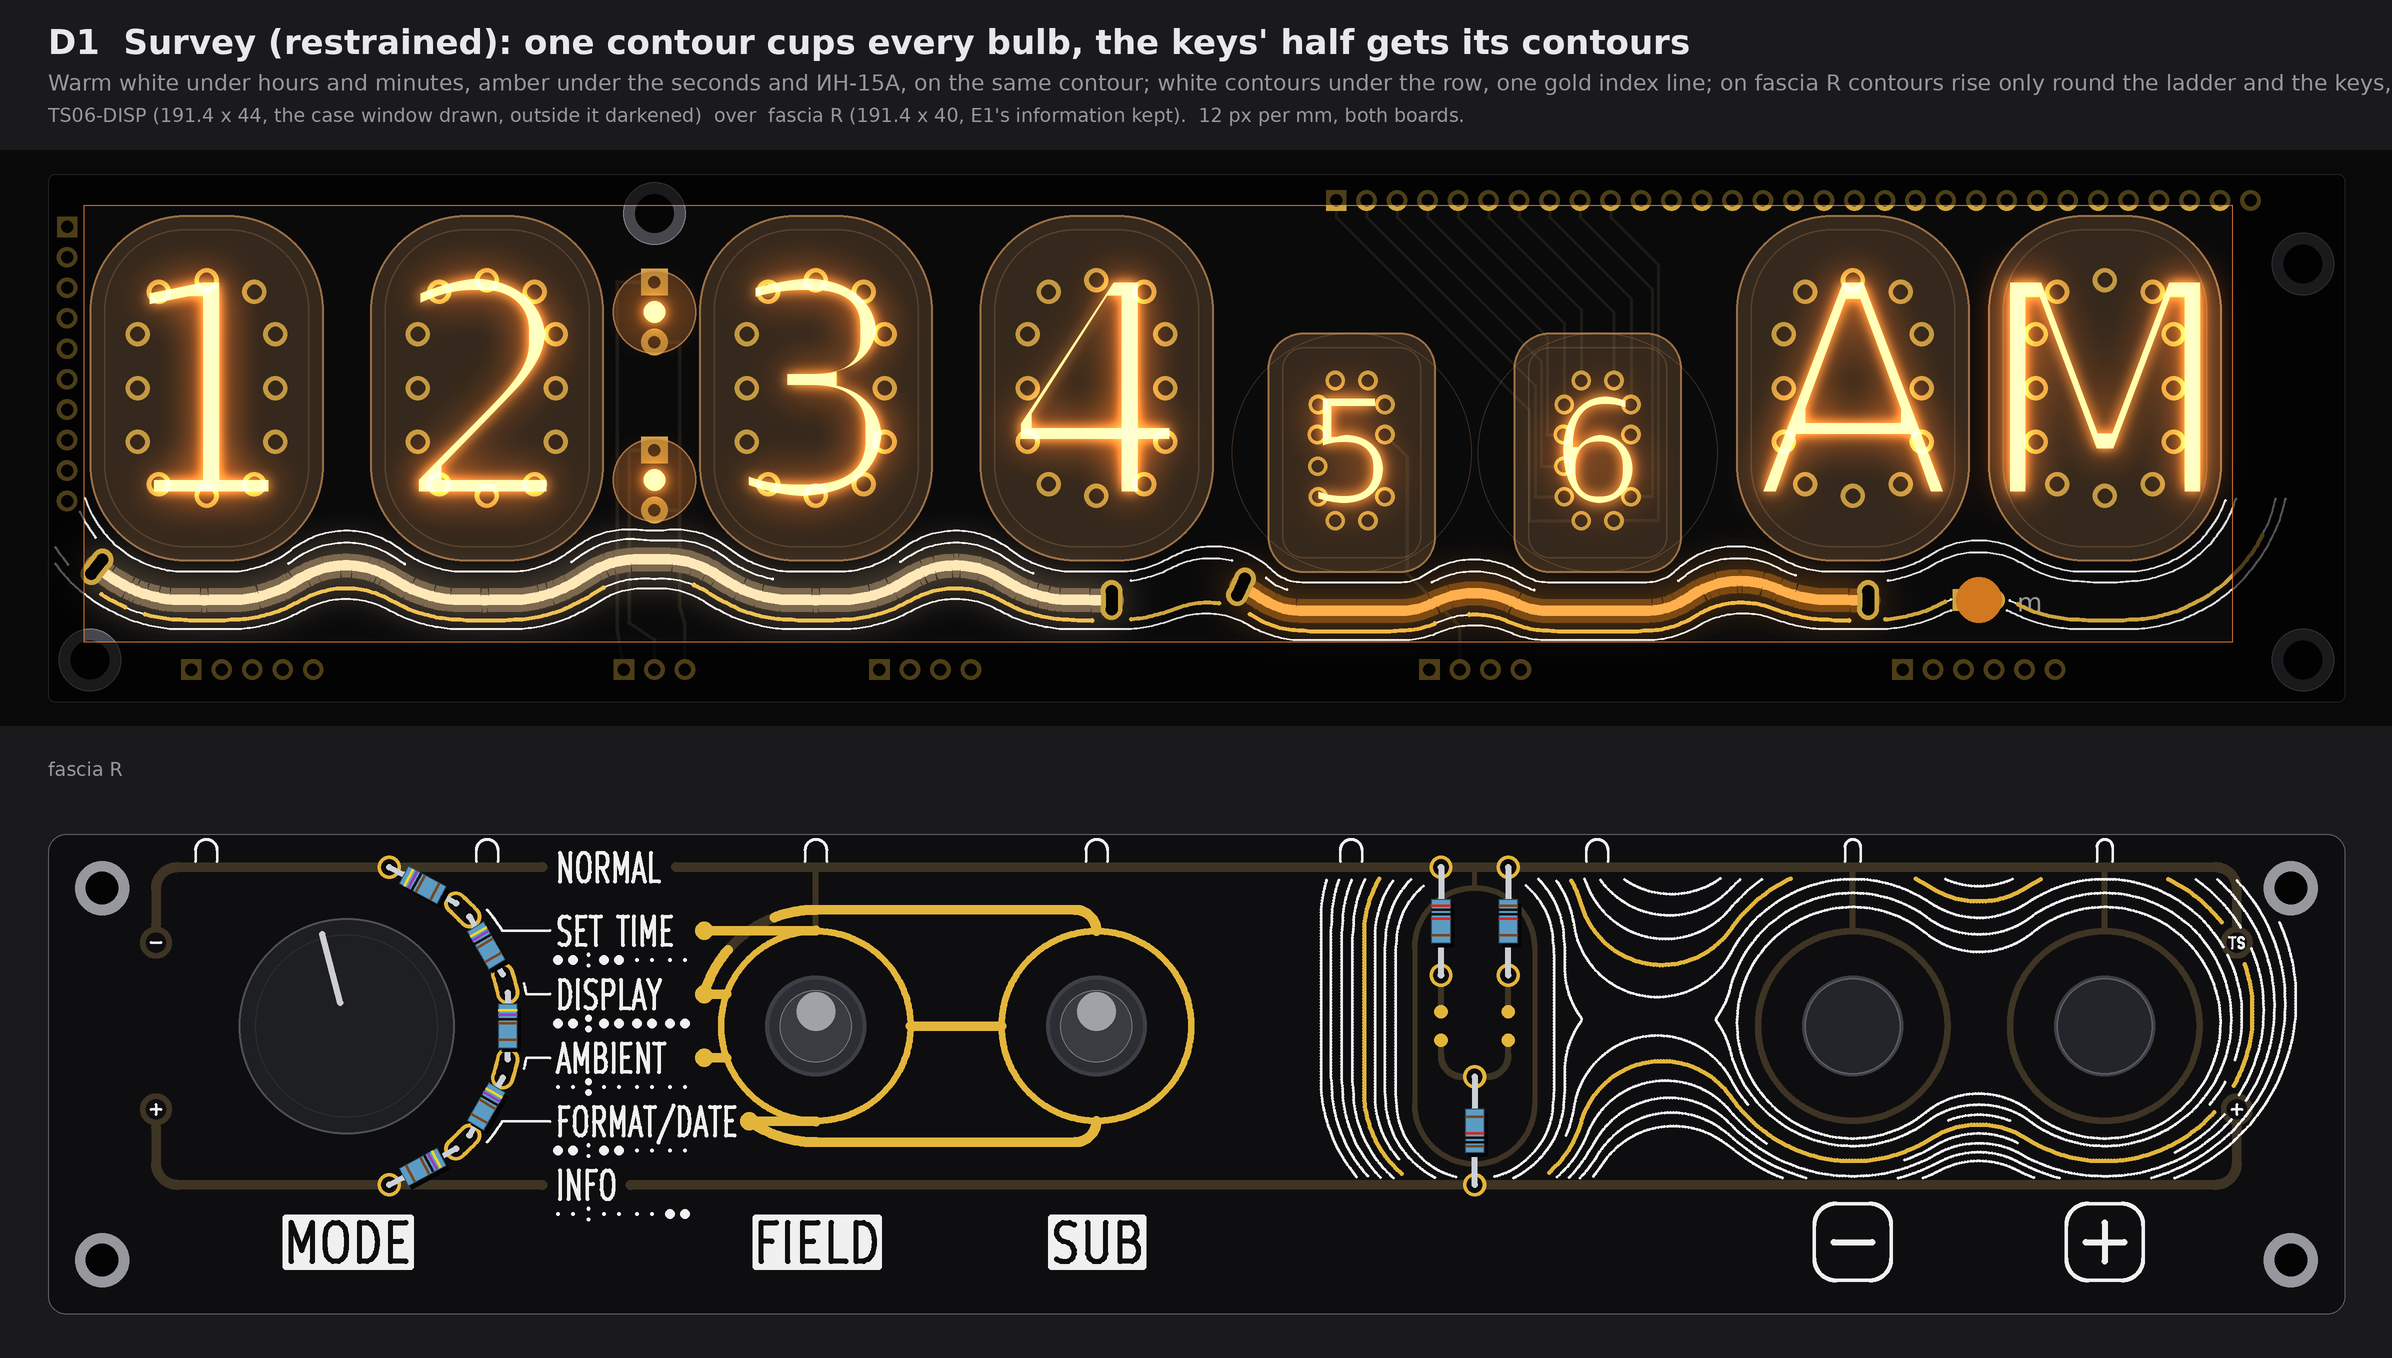
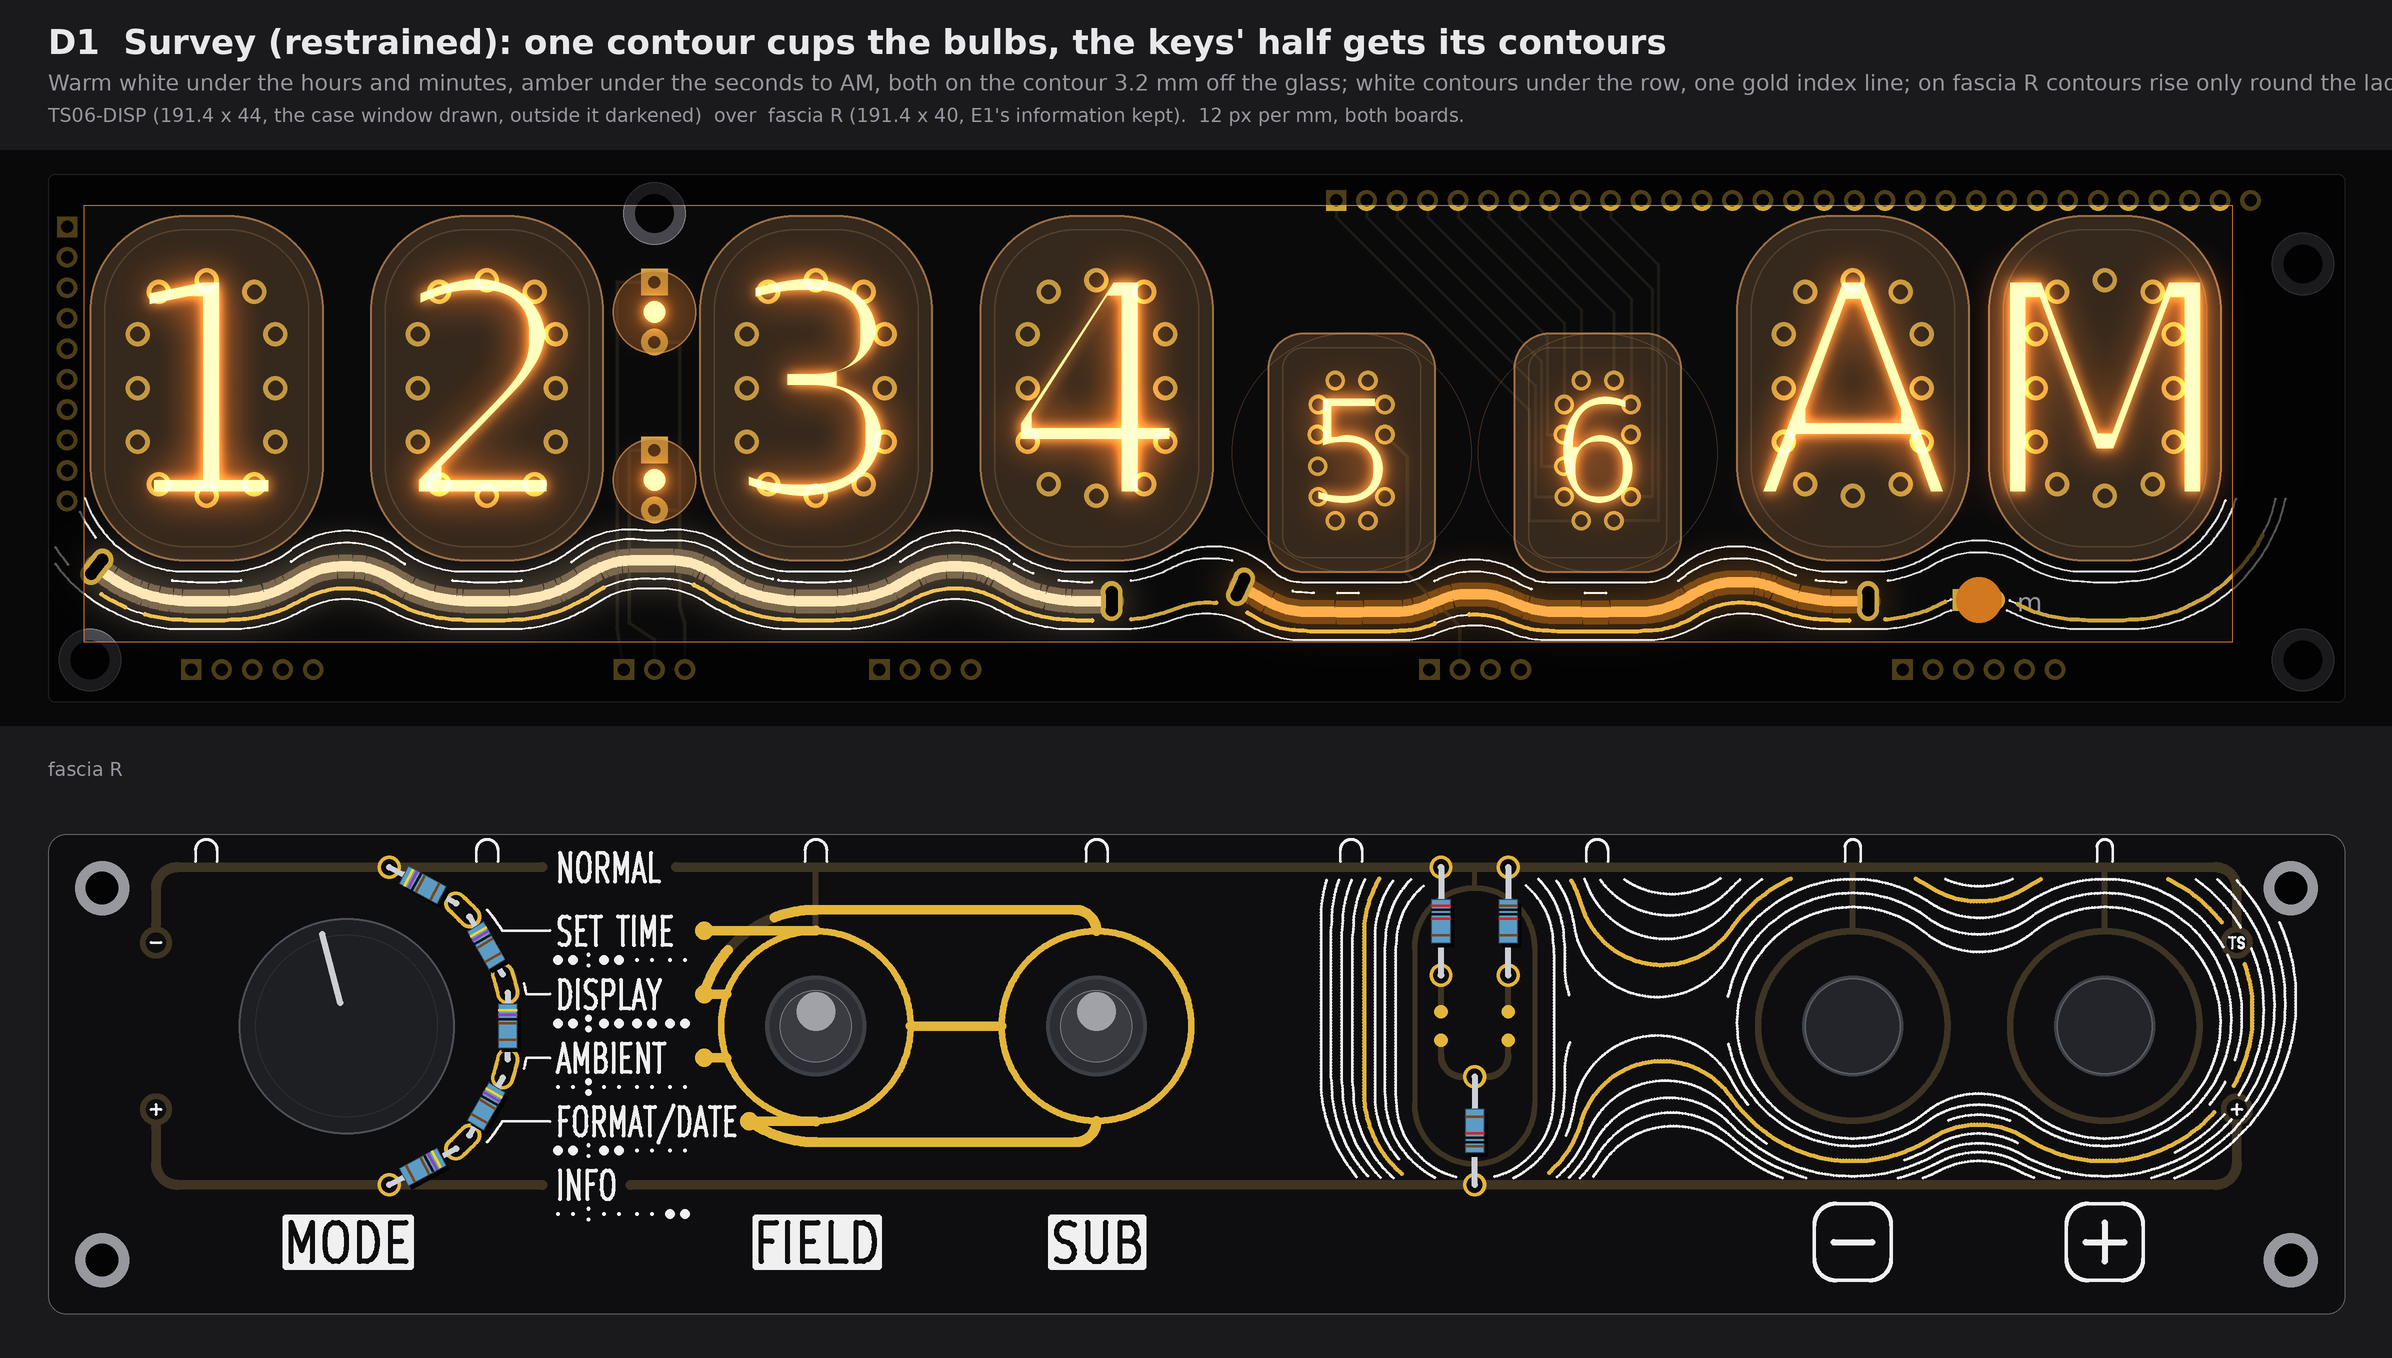
front-art D-contour: three faces, contact sheet, 2x detail, write-up
D1 Survey, D2 Watershed (pick), D3 Flow: contour lines of one height field
(tubes as basins on TS06-DISP, controls as peaks on fascia R), filaments on
chosen contours. Drawings only; fascia_gold.check clean on all three.

Claude-Session: https://claude.ai/code/session_01WoV3gyAFgmtuk6W6Dr4bdA

diff --git a/PCB/art/TS06-FRONT-art-D-contour.md b/PCB/art/TS06-FRONT-art-D-contour.md
@@ -1,0 +1,106 @@
+# TS06 front art D, "Contour": the controls are peaks, the tube groups are basins (three faces; drawings only, nothing built)
+
+No board, schematic, fab, tool, 3D, firmware or spec file was touched. The pictures are drawn from `PCB/TS06-DISP/TS06-DISP.kicad_pcb` (parsed, never written), fascia R's E1 of pass 4 (`PCB/TS06-FASCIA-pass4.md`, rebuilt from its own scratch scripts on `PCB/TS06-FASCIA-rhythm`'s geometry with the control holes opened) and pass 1's rules for slots and bodies (`PCB/TS06-DISP-lights-pass1.md` section 1). Marks: *listing data* is from the shop pages; *inferred* is arithmetic; *assumed* is my reading, not measured or asked. No prices. The scratch scripts are in the run's output folder, not in the repo.
+
+![The three faces at one scale](TS06-FRONT-art-D-contour/contact-sheet.png)
+
+## 1. The idea, and how the lines are made
+
+Every white and gold line is a real contour of one height field, not a hand-drawn curve.
+
+* **DISP:** the tubes are the basins. A line at level *d* is everything *d* mm from the glass (the ИН-12/ИН-15 ovals as rounded rectangles r 8, the ИН-17 face r 3 plus its round stem, the two colon lamps, all *assumed* as in pass 1). Each level is then closed with a 7 mm disc, so every inward turn is R 7 and no line ever folds into a gap between bulbs. Levels every 0.8 mm.
+* **Fascia R:** the controls are the peaks. The cores are the dial with its ring, the FIELD-SUB gold, the ladder's capsule and the two keys. Each level drifts up by 0.3 × *d*, so the lines crowd on the steep side under a control and open toward the tubes above it: the information runs downhill to the bulbs. Levels every 0.9 mm; that leaves 0.63 mm between lines on the steep side.
+* **Ink:** white silk 0.20 mm for the in-between lines. Gold (ENIG) 0.35 mm for every fourth line (the index lines). The filaments are the brightest index lines.
+* **Info first:** each line breaks round anything that carries meaning. White keeps 0.45 mm from silk and 0.75 mm from the names and plates; gold keeps 0.4 mm from all ink and copper. Names, plates, the tube map and E1's gold function lines (0.8 mm) all stand on clear ground, the way a map leaves room round its labels.
+* **Saddles:** a line stops 1.2 mm short of a saddle's pinch, as maps do, so no line has a kink.
+* **Spatial match:** fascia R sits on the tubes' grid. The dial (x 24.9) is under the hours pair, FIELD and SUB (x 64.0, 87.4) under M10 and M1, the ladder (x 118.9) under the seconds pair, and the keys (x 150.4, 171.4) under AM and PM. Each massif's lines open upward toward the group above it. This is spatial, not a claim about which tube a control changes; E1's tube map still says that.
+* **Filament lines:** each filament follows a level line that is also opened with a 6.5 mm disc. By construction every bend is 6.5 mm or more. Measured on the drawn line with a 5 mm chord, the bends are 6.2 mm or more; the gap is grid noise of 0.1 mm. Each length is a sold size, with the slot-to-slot run = L − 6 (pass 1's model).
+
+**One finding that shapes all three faces: HL9 (the "m", which stays) cuts the bottom lane.** The 3.2 mm contour (the one through the old LED anode pads) rises into the cup between AM and PM and meets HL9's body (−0.7 mm). So no filament on that contour crosses x 158 to 164. The m LED becomes the line's full stop.
+
+## 2. D1 Survey (restrained)
+
+![D1](TS06-FRONT-art-D-contour/d1-survey.png)
+
+* **Filaments:**
+  * flexible 95 mm, warm white, on the 3.2 mm contour, from M1's old anode pad leftward, cupping M10, the colon, H1 and H10, to a BL_K slot at x 4.1 (zone 4);
+  * flexible 60 mm, amber, on the same contour, from AM's old anode pad leftward under the ИН-17 pair to a BL_K slot at x 99.4 (zone 7).
+  * The colours meet across an 8.8 mm break at the M1/S10 junction: hours and minutes in one colour, seconds in the other.
+* **White:** DISP: three contours under the row (0.8, 1.6 and 5.6 mm off the glass; 696 mm). Fascia R: the contours round the ladder and the keys only (859 mm), the half E1 left dark, so the face now balances.
+* **Gold:** DISP: one index line 4.8 mm under the glass, on the BL_K pour (161 mm). Fascia R: one index line round the ladder and the keys (143 mm).
+* **Buildable? OK.** It needs a DISP revision with 4 plated slots and mask openings for the gold:
+  * Two slots replace the old anode pads of M1 and AM on their own BL_A tracks; two new BL_K slots go in the pour. No new track.
+  * Slot to other-net copper: 2.4 mm or more (rule 0.25); to 185 V pads 5.6 mm (rule 0.8); to 185 V tracks 2.4 mm (rule 0.6); to the board edge 0.5 mm or more.
+  * Body to glass 2.15 mm, to the colon lamps 2.2, to a screw head 3.1, line to line 8.8.
+  * Fascia: no new hole. `fascia_gold.check` reports no problem in either view.
+
+## 3. D2 Watershed (bold)
+
+![D2](TS06-FRONT-art-D-contour/d2-watershed.png)
+
+* **Filaments:**
+  * flexible 95 mm, amber, the 3.2 mm contour from M1's pad to x 4.1 (zone 4);
+  * flexible 60 mm, ice blue, the 3.2 mm contour from AM's pad to x 99.4 (zone 7);
+  * flexible 60 mm, amber, the 1.6 mm contour in the pocket over the ИН-17 pair. Its drive end is at (92.1, 2.3), hidden behind the brow over M1. It arches over both seconds tubes to a BL_K slot at (140.0, 7.2), below the valance.
+  * Amber holds the hours and minutes and arches over the seconds; ice blue cups the seconds from below: the colours meet round the seconds.
+* **White:** every 0.8 mm on DISP except the index levels (2113 mm). Every 0.9 mm across all of fascia R below the top rail (2294 mm).
+* **Gold:** DISP index lines at 1.6 and 4.8 mm, on BL_K, 0.8 mm or more from pads and from 185 V or cathode tracks, 0.7 mm from other tracks (434 mm). Fascia R: every fourth line (3.6, 7.2, 10.8, 14.4; 603 mm). The gold breaks where it would cross a rail or a stem, so no copper is shorted.
+* **Buildable? Needs one drive track.** No BL_A pad is near the pocket, so the arch needs a new BL track of about 40 mm, or a back-side wire, from a spare BL_A pin. The route through the ИН-17 cathode tracks is not checked. Everything else passes as D1:
+  * The arch's body clears the glass by 0.58 mm and the stems by 0.81 (rule 0.5). Its free slot is 0.57 mm from an ИН-15 cathode track on the back. That passes pass 1's 0.25 for other nets, but is under 0.6 if the cathodes are counted as 185 V.
+
+## 4. D3 Flow (wild)
+
+![D3](TS06-FRONT-art-D-contour/d3-flow.png)
+
+* **Filaments on DISP:**
+  * flexible 95 mm pink and 60 mm ice blue, on the 3.2 mm contour as in D2;
+  * flexible 60 mm pink, the pocket arch as in D2;
+  * flexible 38 mm ice blue, a J on the 5.6 mm contour. It starts from a slot on BL_A8's own track at (172.7, 38.0), 2.4 mm below the old PM pad, and runs round PM's corner and up the right band to (186.8, 14.2) (zone 8).
+* **Filaments on fascia R:** flexible 38 mm pink behind a 14.5 mm window (x 28 to 41, under the MODE plate's right end) and flexible 38 mm ice blue behind an 18.5 mm window (x 110 to 128, under the ladder). Each window follows a contour, 1.2 mm wide, bare FR4; the rest of each 28 mm lit body stays hidden behind the mask.
+* **White:** everything to the board edges on both boards (DISP 2005 mm, fascia 2498 mm).
+* **Gold:** DISP index lines at 1.6, 4.8 and 8.0 mm (573 mm). Fascia R every fourth line (588 mm).
+* **Buildable? Needs four things:**
+  * The case's right wall moves out about 6 mm (window to x 188.5) for the J; pass 1's J needed 4.
+  * The pocket arch's drive track, as in D2.
+  * Two window cut-outs on fascia R, with a printed clip on the back for each filament.
+  * A 2-wire feed for each window filament: from a spare BL_A pin as in pass 1's VT, or from two new back pads. BL_A1, A2, A3 and A6 stay free if the arch takes A5.
+
+  On the T layout (E1, divider on the front) the back is clear behind both windows. On the ordered R, R2 and R3 sit behind the left window (*inferred* from R's courtyards); J1's courtyard (x 146.7 to 164.1) is clear of the right one. The windows were not run through the checker (they are not ink); every line's centre keeps 0.55 mm or more from a window's edge.
+
+## 5. Detail
+
+![D2 at 2x](TS06-FRONT-art-D-contour/d2-detail-2x.png)
+
+D2, x 82 to 162 mm at 24 px per mm. It shows:
+
+* where the amber arch, the ice-blue cup and the gold index lines meet round the seconds;
+* the drive slot at M1's old anode pad, and the free BL_K slot at the M1/S10 junction;
+* on fascia R, the ladder and keys massifs: lines crowd under each control and open toward the bulbs.
+
+## 6. Checks
+
+| Check | D1 | D2 | D3 | Rule |
+|---|---|---|---|---|
+| `fascia_gold.check` on E1 + contours, exposed only / all copper as gold | no problem / no problem | no problem / no problem | no problem / no problem | the checker's |
+| Fascia gold to white | 0.37 | 0.35 | 0.35 | 0.30 |
+| Fascia gold to the edge | 1.82 | 1.51 | 1.51 | 1.4 |
+| Fascia gold to a screw | 6.26 | 3.16 | 3.16 | 3.0 |
+| Fascia gold, margin to the knob keep-out / lever rings | 3.75 / 1.5 | 3.75 / 1.5 | 3.75 / 1.5 | 0 |
+| DISP gold to pads and to 185 V or cathode tracks / to other tracks (raster, 0.1 mm grid) | 0.8 / 0.7 or more | 0.8 / 0.7 or more | 0.8 / 0.7 or more | 0.6 for 185 V; the pour's own clearance is 0.5 |
+| Slots (pass 1's rules, exact) | pass | pass | pass | 0.25 / 0.8 / 0.6 / 0.5 |
+| Filament body to glass, smallest | 2.15 | 0.58 | 0.58 | 0.5 |
+| Filament bend, smallest (5 mm chord) | 7.0 | 6.2 | 6.2 | 6 (*assumed*) |
+
+The DISP lines' silk spacing (0.8 mm level step) and the fascia's 0.63 mm steep-side spacing keep silk to silk at 0.43 mm or more; the checker found no pair under 0.25.
+
+## 7. Assumed values
+
+* Glass outlines as in pass 1 (rounded rectangles; the ИН-17 face corner r 3).
+* Bend radius 6 mm, body 2.0 mm, tabs 5 mm each end, slot 2 mm past the silicone (pass 1's model).
+* Ice blue as on sale: *listing data* (the brief's list; the pictures I viewed show blue, pink, warm white, yellow, red and green).
+* Light through 2.0 mm bare FR4 is soft and dim (*assumed*, not tried).
+* Mask openings on the BL_K pour show as ENIG gold (standard, *inferred*).
+
+## 8. My pick
+
+**D2 Watershed.** It is the most coherent of the three: two colours that hold the hours and minutes, then meet round the seconds; a contour field that crowds under each control and opens toward the bulb above it; info still first. It costs only one drive track beyond D1, which can be built today as drawn.
